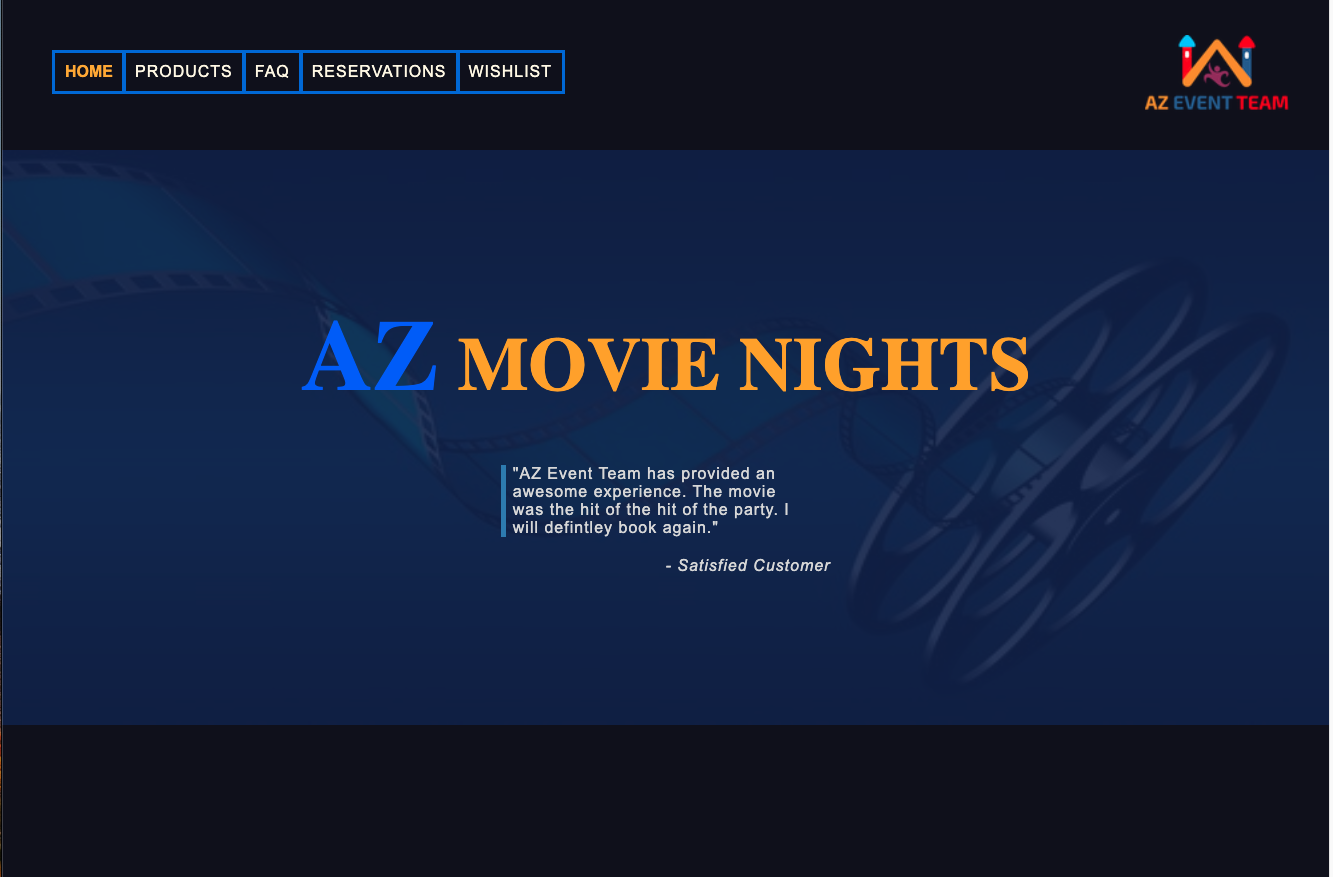
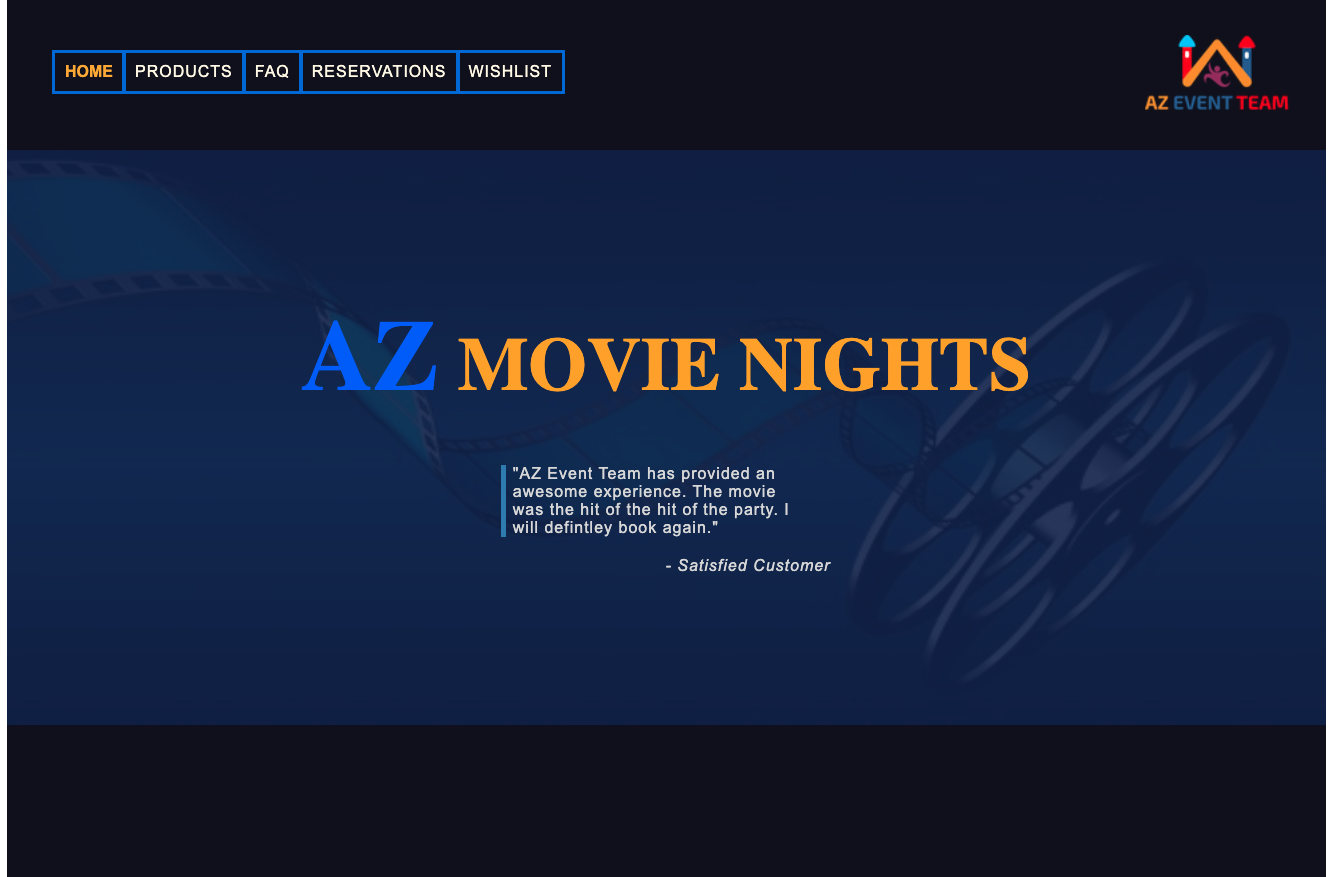
Update styling

Changed region(s): [[0.9842, 0.0, 1.0, 1.0], [0.0, 0.0, 0.0308, 1.0]]

diff --git a/src/components/Screens/Screens.css b/src/components/Screens/Screens.css
@@ -1,7 +1,4 @@
 .screensComponent {
-  /* background-color:#2f2f30; 
-  background-color:#1F2155;
-  background-color: rgb(55, 57, 83, .9); */
   background-color: #0d234c;
   margin: 0;
   padding: 0;
@@ -29,6 +26,7 @@
   grid-area: screensInfoContainer;
   width: 100%;
   font-size: 14px;
+  text-align: justify;
 
 }
 

diff --git a/src/components/ProductList/ProductList.jsx b/src/components/ProductList/ProductList.jsx
@@ -8,9 +8,6 @@ import SingleProduct from './../SingleProduct/SingleProduct';
 
 function ProductList(props) {
 
-  // console.log("I am from ProductList props");
-  // console.log(props);
-
   return (
     <div id={styles.productListComponent}>
       
